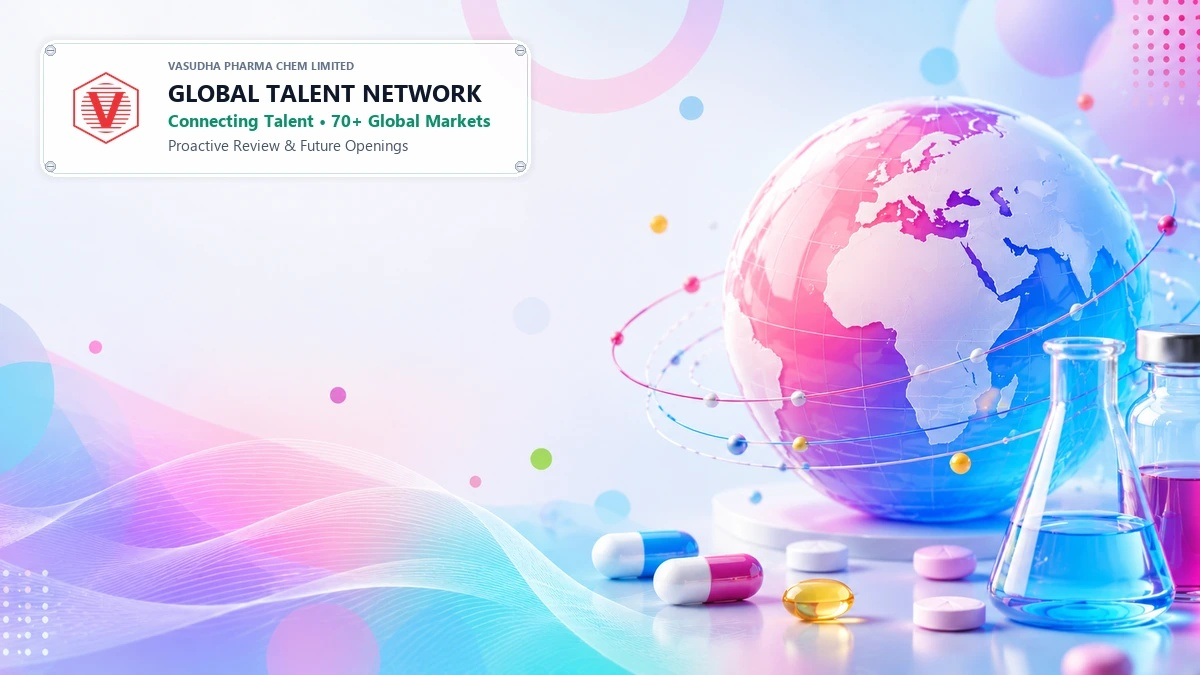
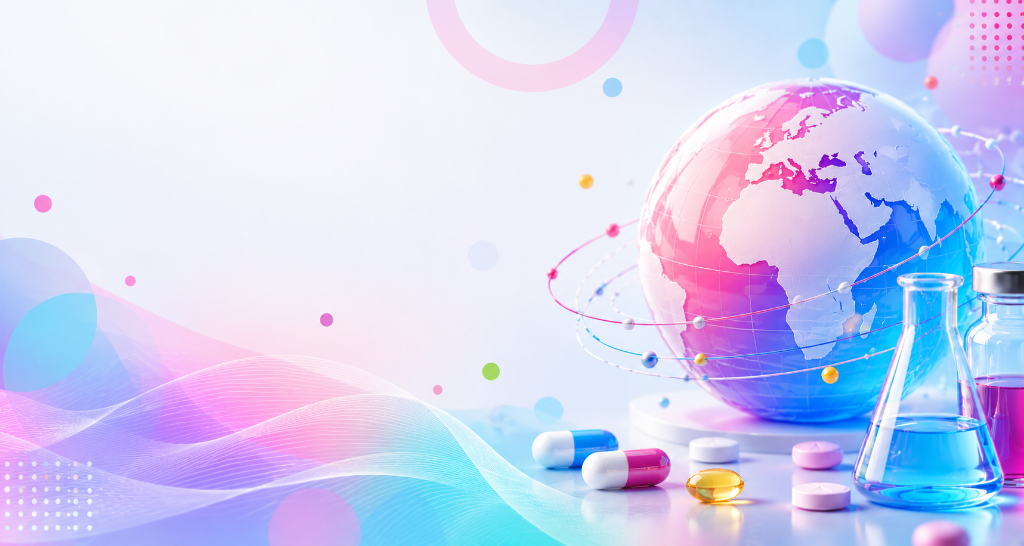
feat(events): use clean background artwork with high-visibility scrim and full-bleed edge-to-edge marquee

diff --git a/assets/css/supply-globe.css b/assets/css/supply-globe.css
@@ -1042,17 +1042,20 @@
 /* ===== Scrolling Horizontal Track ===== */
 .vp-events-scroller-wrap {
   position: relative !important;
-  width: 100% !important;
+  width: 100vw !important;
+  margin-left: calc(-50vw + 50%) !important;
+  padding: 0 !important;
+  box-sizing: border-box !important;
   overflow: hidden !important;
 }
 
 .vp-events-scroller {
   display: flex !important;
-  gap: 22px !important;
+  gap: 24px !important;
   overflow-x: auto !important;
   scroll-snap-type: none !important;
   scroll-behavior: auto !important;
-  padding: 8px 4px 20px !important;
+  padding: 12px max(24px, calc((100vw - 1440px) / 2)) 28px !important;
   scrollbar-width: thin !important;
   scrollbar-color: rgba(29, 184, 138, 0.6) rgba(255, 255, 255, 0.08) !important;
   -webkit-overflow-scrolling: touch !important;
@@ -1240,16 +1243,22 @@ nav a.nav-link .nav-home-fill {
   width: 100% !important;
   height: 100% !important;
   object-fit: cover !important;
-  object-position: center !important;
+  object-position: center right !important;
   z-index: 0 !important;
   pointer-events: none !important;
+  filter: saturate(1.12) brightness(1.04) !important;
 }
 
+/* Light transparent scrim: makes the clean 3D creative image highly visible while keeping text crisp */
 .vp-video-events-section .vp-events-bg-scrim {
+  position: absolute !important;
+  inset: 0 !important;
   background: linear-gradient(180deg, 
-    rgba(6, 32, 26, 0.72) 0%, 
-    rgba(4, 24, 20, 0.42) 45%, 
-    rgba(6, 32, 26, 0.80) 100%) !important;
+    rgba(4, 20, 16, 0.30) 0%, 
+    rgba(4, 20, 16, 0.10) 45%, 
+    rgba(4, 20, 16, 0.36) 100%) !important;
+  z-index: 1 !important;
+  pointer-events: none !important;
 }
 
 /* ==========================================================================

diff --git a/home.html b/home.html
@@ -7019,7 +7019,7 @@
 
   <!-- Global Events Over Video — Transparent Glassmorphic Scroller -->
   <section class="vp-video-events-section" id="globalEventsSection">
-    <img class="vp-events-bg-img" src="assets/connect-network-creative.jpg" alt="Global Talent & Events Network" aria-hidden="true">
+    <img class="vp-events-bg-img" src="assets/events-bg-clean.png" alt="Global Talent & Events Network" aria-hidden="true">
     <div class="vp-events-bg-scrim"></div>
 
     <div class="vp-events-content-container">

diff --git a/index.html b/index.html
@@ -7019,7 +7019,7 @@
 
   <!-- Global Events Over Video — Transparent Glassmorphic Scroller -->
   <section class="vp-video-events-section" id="globalEventsSection">
-    <img class="vp-events-bg-img" src="assets/connect-network-creative.jpg" alt="Global Talent & Events Network" aria-hidden="true">
+    <img class="vp-events-bg-img" src="assets/events-bg-clean.png" alt="Global Talent & Events Network" aria-hidden="true">
     <div class="vp-events-bg-scrim"></div>
 
     <div class="vp-events-content-container">
